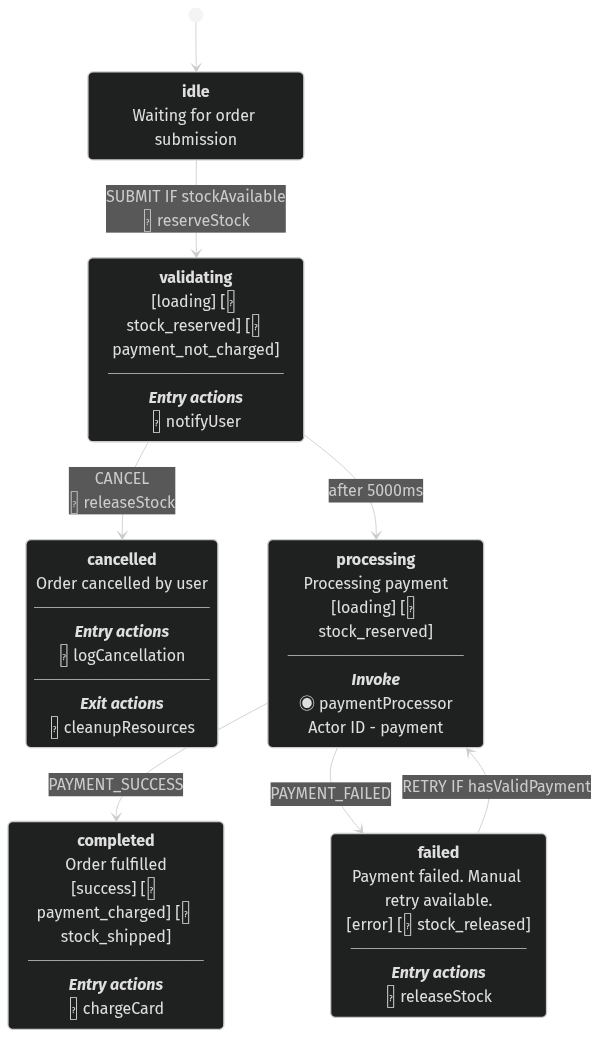
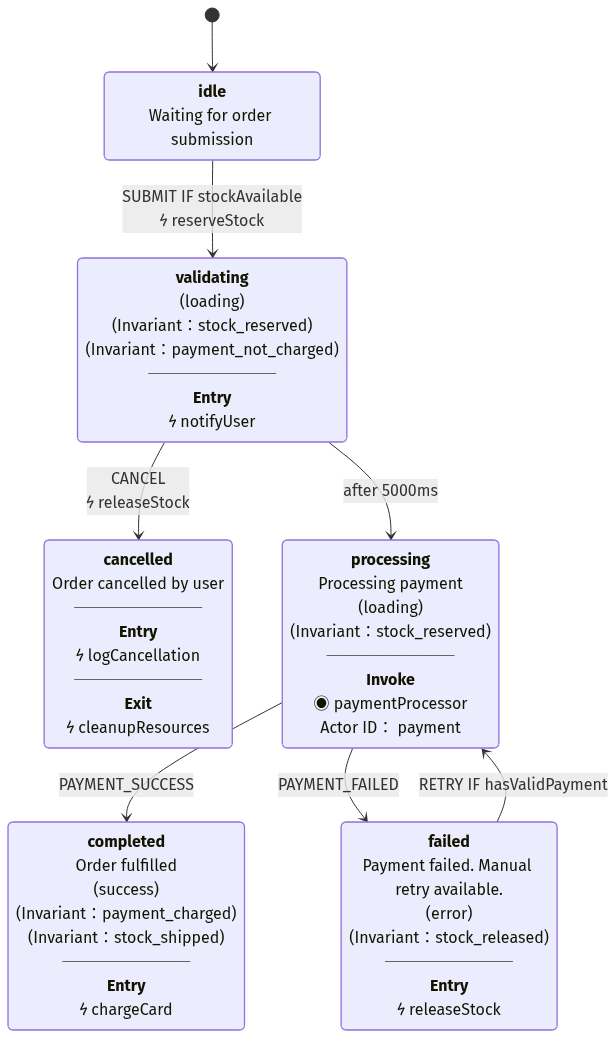
feat: improve visual parity with unicode symbols
- Use ϟ (Greek koppa) for actions instead of >> - looks like lightning
- Use ◉ (fisheye) for invoke actors - matches Stately.ai
- Expand INV: to full word "Invariant∶" for readability
- Use unicode ratio ∶ instead of colon to avoid Mermaid parser issues
- Use ──────── box drawing for clean section separators
- Change "id:" to "Actor ID:" to match Stately.ai format
- Update tests and README to match new format

🤖 Generated with [Claude Code](https://claude.com/claude-code)

diff --git a/index.ts b/index.ts
@@ -59,10 +59,15 @@ export function formatEventName(event: string): string {
 
 /**
  * Escape text for Mermaid state descriptions.
- * Colons break `stateName: description` syntax, so replace with dash.
+ * Colons break `stateName: description` syntax, so replace with unicode ratio character.
+ * Also expands common abbreviations for readability.
  */
 export function escapeMermaidText(text: string): string {
-  return text.replace(/:/g, ' -');
+  // Expand INV: abbreviation to full word for readability
+  let result = text.replace(/^INV:/i, 'Invariant∶');
+  // Replace remaining colons with unicode ratio character (U+2236)
+  result = result.replace(/:/g, '∶');
+  return result;
 }
 
 /**
@@ -145,7 +150,7 @@ export function formatTransitionLabel(
       .map(a => a.type)
       .filter(t => t && !t.startsWith('xstate.'));
     if (actionNames.length > 0) {
-      label += `<br/>⚡ ${actionNames.join(', ')}`;
+      label += `<br/>ϟ ${actionNames.join(', ')}`;
     }
   }
 
@@ -200,10 +205,13 @@ function buildStateLabel(
     lines.push(desc);
   }
 
-  // Tags - horizontal with brackets for pill-like appearance (matches Stately.ai)
+  // Tags - each on own line to prevent bad wrapping in narrow state boxes
+  // Using parentheses (tag) for pill-like appearance - brackets [] break Mermaid parser
+  // Escape colons in tag names as they break Mermaid state description syntax
   if (tags.length > 0) {
-    const tagLine = tags.map(t => `[${t}]`).join(' ');
-    lines.push(tagLine);
+    for (const tag of tags) {
+      lines.push(`(${escapeMermaidText(tag)})`);
+    }
   }
 
   // Meta as generic key-value pairs (italicized keys)
@@ -214,31 +222,33 @@ function buildStateLabel(
     }
   }
 
-  // Entry actions (separator + bold italic label for visual distinction)
+  // Entry actions (separator + bold label for visual distinction)
+  // Using unicode box drawing for separator, ϟ (koppa) for lightning-like action symbol
   if (entry.length > 0) {
-    lines.push(`───────────`);
-    lines.push(`<b><i>Entry actions</i></b>`);
+    lines.push(`────────`);
+    lines.push(`<b>Entry</b>`);
     for (const action of entry) {
-      lines.push(`⚡ ${action}`);
+      lines.push(`ϟ ${action}`);
     }
   }
 
-  // Exit actions (separator + bold italic label for visual distinction)
+  // Exit actions (separator + bold label for visual distinction)
   if (exit.length > 0) {
-    lines.push(`───────────`);
-    lines.push(`<b><i>Exit actions</i></b>`);
+    lines.push(`────────`);
+    lines.push(`<b>Exit</b>`);
     for (const action of exit) {
-      lines.push(`⚡ ${action}`);
+      lines.push(`ϟ ${action}`);
     }
   }
 
-  // Invokes (separator + bold italic label for visual distinction)
+  // Invokes (separator + bold label for visual distinction)
+  // Using ◉ (fisheye) to match Stately.ai's invoke symbol
   if (invokes.length > 0) {
-    lines.push(`───────────`);
-    lines.push(`<b><i>Invoke</i></b>`);
+    lines.push(`────────`);
+    lines.push(`<b>Invoke</b>`);
     for (const inv of invokes) {
-      lines.push(`◉ ${inv.src}`);
-      lines.push(`Actor ID - ${inv.id}`);
+      lines.push(`◉ ${escapeMermaidText(inv.src)}`);
+      lines.push(`Actor ID∶ ${escapeMermaidText(inv.id)}`);
     }
   }
 

diff --git a/tests/field-coverage.test.ts b/tests/field-coverage.test.ts
@@ -40,7 +40,7 @@ const comprehensiveMachine = setup({
       | { type: "GO" }
       | { type: "BACK" }
       | { type: "DONE" },
-    tags: {} as "🔒 invariant_a" | "🔒 invariant_b" | "category",
+    tags: {} as "INV:invariant_a" | "INV:invariant_b" | "category",
   },
   guards: {
     isValid: () => true,
@@ -63,7 +63,7 @@ const comprehensiveMachine = setup({
       // description: ✅
       description: "FIELD_DESCRIPTION_CHECK",
       // tags: ✅
-      tags: ["🔒 invariant_a", "category"],
+      tags: ["INV:invariant_a", "category"],
       // meta: ✅
       meta: { customKey: "FIELD_META_CHECK" },
       // entry: ✅
@@ -86,7 +86,7 @@ const comprehensiveMachine = setup({
       },
     },
     stateB: {
-      tags: ["🔒 invariant_b"],
+      tags: ["INV:invariant_b"],
       on: {
         BACK: { target: "stateA" },
       },
@@ -105,8 +105,8 @@ const checks: { field: string; pattern: RegExp; description: string }[] = [
   },
   {
     field: "tags",
-    pattern: /\[🔒 invariant_a\].*\[category\]/s,
-    description: "Tags in brackets for pill-like appearance",
+    pattern: /\(Invariant∶invariant_a\).*\(category\)/s,
+    description: "Tags in parentheses with full Invariant label",
   },
   {
     field: "meta",
@@ -115,18 +115,18 @@ const checks: { field: string; pattern: RegExp; description: string }[] = [
   },
   {
     field: "entry",
-    pattern: /Entry actions.*⚡ onEnter/s,
-    description: "Entry actions section",
+    pattern: /Entry.*ϟ onEnter/s,
+    description: "Entry actions section with lightning symbol",
   },
   {
     field: "exit",
-    pattern: /Exit actions.*⚡ onExit/s,
-    description: "Exit actions section",
+    pattern: /Exit.*ϟ onExit/s,
+    description: "Exit actions section with lightning symbol",
   },
   {
     field: "invoke",
-    pattern: /Invoke.*◉ someService.*FIELD_INVOKE_CHECK/s,
-    description: "Invoke actors section",
+    pattern: /Invoke.*◉ someService.*Actor ID∶ FIELD_INVOKE_CHECK/s,
+    description: "Invoke actors section with fisheye symbol",
   },
   {
     field: "on (transitions)",
@@ -140,8 +140,8 @@ const checks: { field: string; pattern: RegExp; description: string }[] = [
   },
   {
     field: "on (actions)",
-    pattern: /⚡ transitionAction/,
-    description: "Actions on transitions",
+    pattern: /ϟ transitionAction/,
+    description: "Actions on transitions with lightning symbol",
   },
   {
     field: "after",

diff --git a/examples/order-machine.ts b/examples/order-machine.ts
@@ -21,11 +21,11 @@ export const orderMachine = setup({
       | "loading"
       | "error"
       | "success"
-      | "🔒 stock_reserved"
-      | "🔒 payment_not_charged"
-      | "🔒 payment_charged"
-      | "🔒 stock_shipped"
-      | "🔒 stock_released",
+      | "INV:stock_reserved"
+      | "INV:payment_not_charged"
+      | "INV:payment_charged"
+      | "INV:stock_shipped"
+      | "INV:stock_released",
   },
   guards: {
     hasValidPayment: () => true,
@@ -61,7 +61,7 @@ export const orderMachine = setup({
       },
     },
     validating: {
-      tags: ["loading", "🔒 stock_reserved", "🔒 payment_not_charged"],
+      tags: ["loading", "INV:stock_reserved", "INV:payment_not_charged"],
       entry: [{ type: "notifyUser" }],
       on: {
         CANCEL: { target: "cancelled", actions: [{ type: "releaseStock" }] },
@@ -71,7 +71,7 @@ export const orderMachine = setup({
       },
     },
     processing: {
-      tags: ["loading", "🔒 stock_reserved"],
+      tags: ["loading", "INV:stock_reserved"],
       description: "Processing payment",
       invoke: [{ src: "paymentProcessor", id: "payment" }],
       on: {
@@ -80,12 +80,12 @@ export const orderMachine = setup({
       },
     },
     completed: {
-      tags: ["success", "🔒 payment_charged", "🔒 stock_shipped"],
+      tags: ["success", "INV:payment_charged", "INV:stock_shipped"],
       description: "Order fulfilled",
       entry: [{ type: "chargeCard" }],
     },
     failed: {
-      tags: ["error", "🔒 stock_released"],
+      tags: ["error", "INV:stock_released"],
       description: "Payment failed. Manual retry available.",
       entry: [{ type: "releaseStock" }],
       on: {

diff --git a/README.md b/README.md
@@ -4,30 +4,20 @@ Convert XState v5 TypeScript state machines to Mermaid stateDiagram-v2 format wi
 
 ## Visual Parity with Stately.ai
 
-<table>
-<tr>
-<th>Stately.ai Editor</th>
-<th>This Library (Mermaid)</th>
-<th>Legend</th>
-</tr>
-<tr>
-<td valign="top"><img src=".github/assets/stately-ai-reference.png" alt="Stately.ai editor" width="300"/></td>
-<td valign="top"><img src=".github/assets/library-output.png" alt="Library mermaid output" width="300"/></td>
-<td valign="top">
+| Stately.ai Editor (Reference) | This Library (Mermaid Output) |
+|:-----------------------------:|:-----------------------------:|
+| <img src=".github/assets/stately-ai-reference.png" alt="Stately.ai editor" width="400"/> | <img src=".github/assets/library-output.png" alt="Library mermaid output" width="400"/> |
+
+**Legend:**
 
 | Symbol | Meaning |
 |:------:|---------|
-| `[tag]` | Tags (pill-like styling) |
-| `<b>` | Bold state names |
-| 🔒 | State [invariant](https://en.wikipedia.org/wiki/Invariant_(mathematics)#Invariants_in_computer_science) |
-| ⚡ | Action (entry/exit/transition) |
-| ◉ | Invoked actor |
-| `IF` | Guard condition |
-| `───` | Section separator |
-
-</td>
-</tr>
-</table>
+| `(tag)` | Tags (styled as pills in Stately.ai) |
+| **bold** | State names |
+| `ϟ` | Action (entry/exit/transition) - lightning symbol |
+| `◉` | Invoked actor - fisheye symbol |
+| `IF` | Guard condition on transition |
+| `────────` | Section separator |
 
 ## Why?
 
@@ -61,11 +51,11 @@ const orderMachine = setup({
       | "loading"
       | "error"
       | "success"
-      | "🔒 stock_reserved"
-      | "🔒 payment_not_charged"
-      | "🔒 payment_charged"
-      | "🔒 stock_shipped"
-      | "🔒 stock_released",
+      | "INV:stock_reserved"
+      | "INV:payment_not_charged"
+      | "INV:payment_charged"
+      | "INV:stock_shipped"
+      | "INV:stock_released",
   },
   guards: {
     hasValidPayment: () => true,
@@ -98,7 +88,7 @@ const orderMachine = setup({
       },
     },
     validating: {
-      tags: ["loading", "🔒 stock_reserved", "🔒 payment_not_charged"],
+      tags: ["loading", "INV:stock_reserved", "INV:payment_not_charged"],
       entry: [{ type: "notifyUser" }],
       on: {
         CANCEL: { target: "cancelled", actions: [{ type: "releaseStock" }] },
@@ -108,7 +98,7 @@ const orderMachine = setup({
       },
     },
     processing: {
-      tags: ["loading", "🔒 stock_reserved"],
+      tags: ["loading", "INV:stock_reserved"],
       description: "Processing payment",
       invoke: [{ src: "paymentProcessor", id: "payment" }],
       on: {
@@ -117,12 +107,12 @@ const orderMachine = setup({
       },
     },
     completed: {
-      tags: ["success", "🔒 payment_charged", "🔒 stock_shipped"],
+      tags: ["success", "INV:payment_charged", "INV:stock_shipped"],
       description: "Order fulfilled",
       entry: [{ type: "chargeCard" }],
     },
     failed: {
-      tags: ["error", "🔒 stock_released"],
+      tags: ["error", "INV:stock_released"],
       description: "Payment failed. Manual retry available.",
       entry: [{ type: "releaseStock" }],
       on: {
@@ -151,17 +141,17 @@ Output (actual generated output, not manually written):
 stateDiagram-v2
     [*] --> idle
     idle: <b>idle</b><br/>Waiting for order submission
-    idle --> validating: SUBMIT IF stockAvailable<br/>⚡ reserveStock
-    validating: <b>validating</b><br/>[loading] [🔒 stock_reserved] [🔒 payment_not_charged]<br/>───────────<br/><b><i>Entry actions</i></b><br/>⚡ notifyUser
-    validating --> cancelled: CANCEL<br/>⚡ releaseStock
+    idle --> validating: SUBMIT IF stockAvailable<br/>ϟ reserveStock
+    validating: <b>validating</b><br/>(loading)<br/>(Invariant∶stock_reserved)<br/>(Invariant∶payment_not_charged)<br/>────────<br/><b>Entry</b><br/>ϟ notifyUser
+    validating --> cancelled: CANCEL<br/>ϟ releaseStock
     validating --> processing: after 5000ms
-    processing: <b>processing</b><br/>Processing payment<br/>[loading] [🔒 stock_reserved]<br/>───────────<br/><b><i>Invoke</i></b><br/>◉ paymentProcessor<br/>Actor ID - payment
+    processing: <b>processing</b><br/>Processing payment<br/>(loading)<br/>(Invariant∶stock_reserved)<br/>────────<br/><b>Invoke</b><br/>◉ paymentProcessor<br/>Actor ID∶ payment
     processing --> completed: PAYMENT_SUCCESS
     processing --> failed: PAYMENT_FAILED
-    completed: <b>completed</b><br/>Order fulfilled<br/>[success] [🔒 payment_charged] [🔒 stock_shipped]<br/>───────────<br/><b><i>Entry actions</i></b><br/>⚡ chargeCard
-    failed: <b>failed</b><br/>Payment failed. Manual retry available.<br/>[error] [🔒 stock_released]<br/>───────────<br/><b><i>Entry actions</i></b><br/>⚡ releaseStock
+    completed: <b>completed</b><br/>Order fulfilled<br/>(success)<br/>(Invariant∶payment_charged)<br/>(Invariant∶stock_shipped)<br/>────────<br/><b>Entry</b><br/>ϟ chargeCard
+    failed: <b>failed</b><br/>Payment failed. Manual retry available.<br/>(error)<br/>(Invariant∶stock_released)<br/>────────<br/><b>Entry</b><br/>ϟ releaseStock
     failed --> processing: RETRY IF hasValidPayment
-    cancelled: <b>cancelled</b><br/>Order cancelled by user<br/>───────────<br/><b><i>Entry actions</i></b><br/>⚡ logCancellation<br/>───────────<br/><b><i>Exit actions</i></b><br/>⚡ cleanupResources
+    cancelled: <b>cancelled</b><br/>Order cancelled by user<br/>────────<br/><b>Entry</b><br/>ϟ logCancellation<br/>────────<br/><b>Exit</b><br/>ϟ cleanupResources
 ```
 
 ## Supported XState Fields
@@ -169,11 +159,11 @@ stateDiagram-v2
 | Field | Description | Rendering |
 |-------|-------------|-----------|
 | `description` | State description | Plain text below state name |
-| `tags` | Array of string tags | `[tag1] [tag2]` |
+| `tags` | Array of string tags | `(tag)` with `INV:` expanded to `Invariant∶` |
 | `meta` | Generic metadata object | `*key* - value` (italicized keys) |
-| `entry` | Entry actions array | Section with `⚡ actionName` |
-| `exit` | Exit actions array | Section with `⚡ actionName` |
-| `invoke` | Invoked actors | Section with `◉ actorSrc` and `Actor ID - id` |
+| `entry` | Entry actions array | Section with `ϟ actionName` |
+| `exit` | Exit actions array | Section with `ϟ actionName` |
+| `invoke` | Invoked actors | Section with `◉ actorSrc` and `Actor ID∶ id` |
 | `on` | Event transitions | `EVENT IF guard` on edges |
 | `after` | Delayed transitions | `after Xms` on edges |
 
